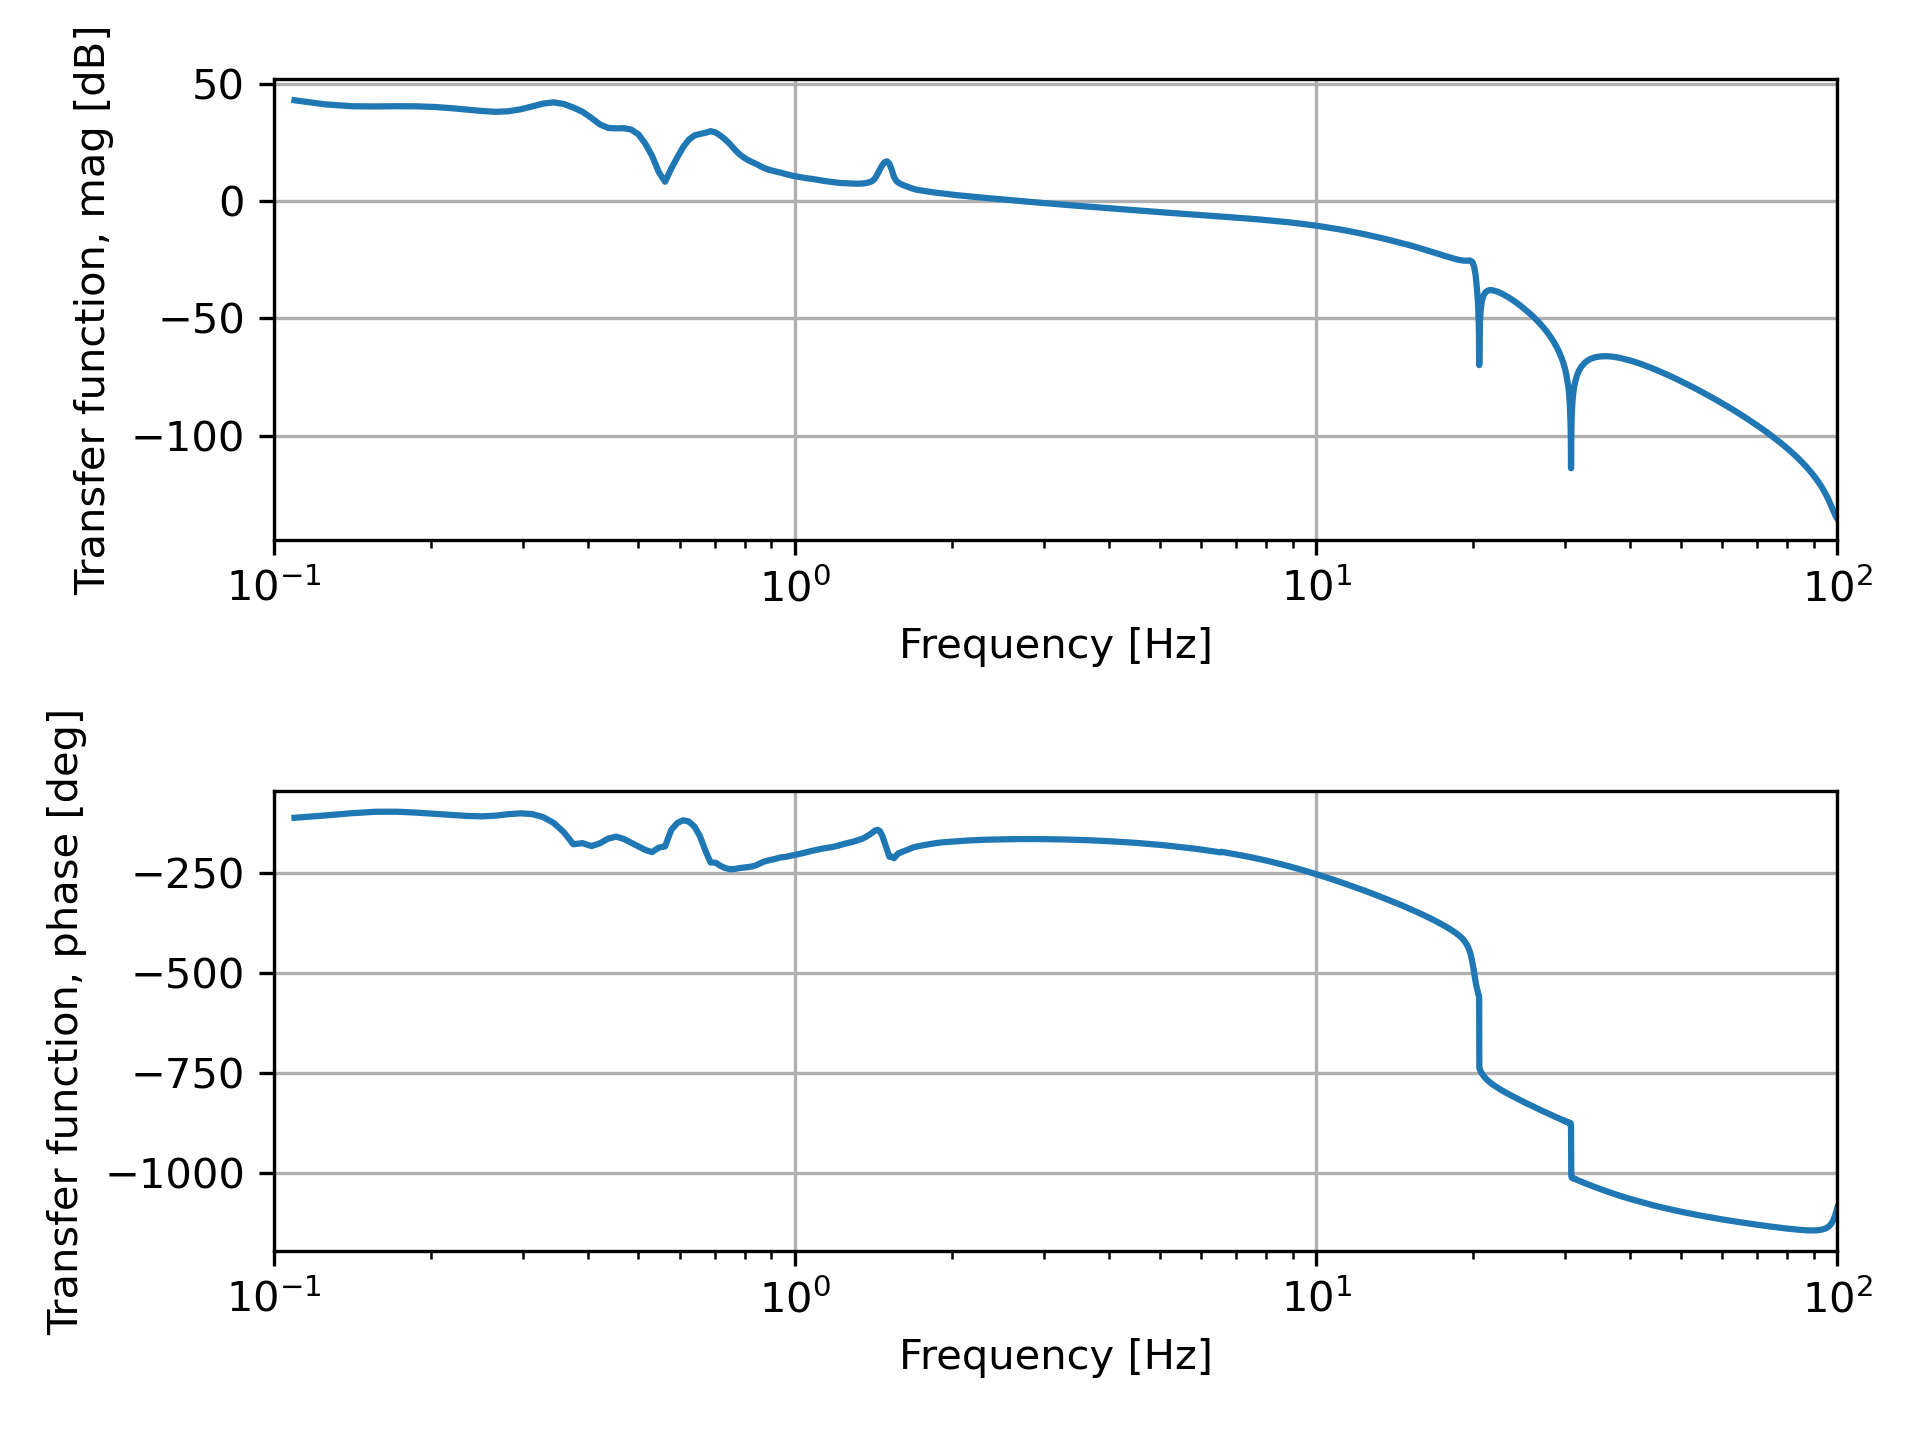
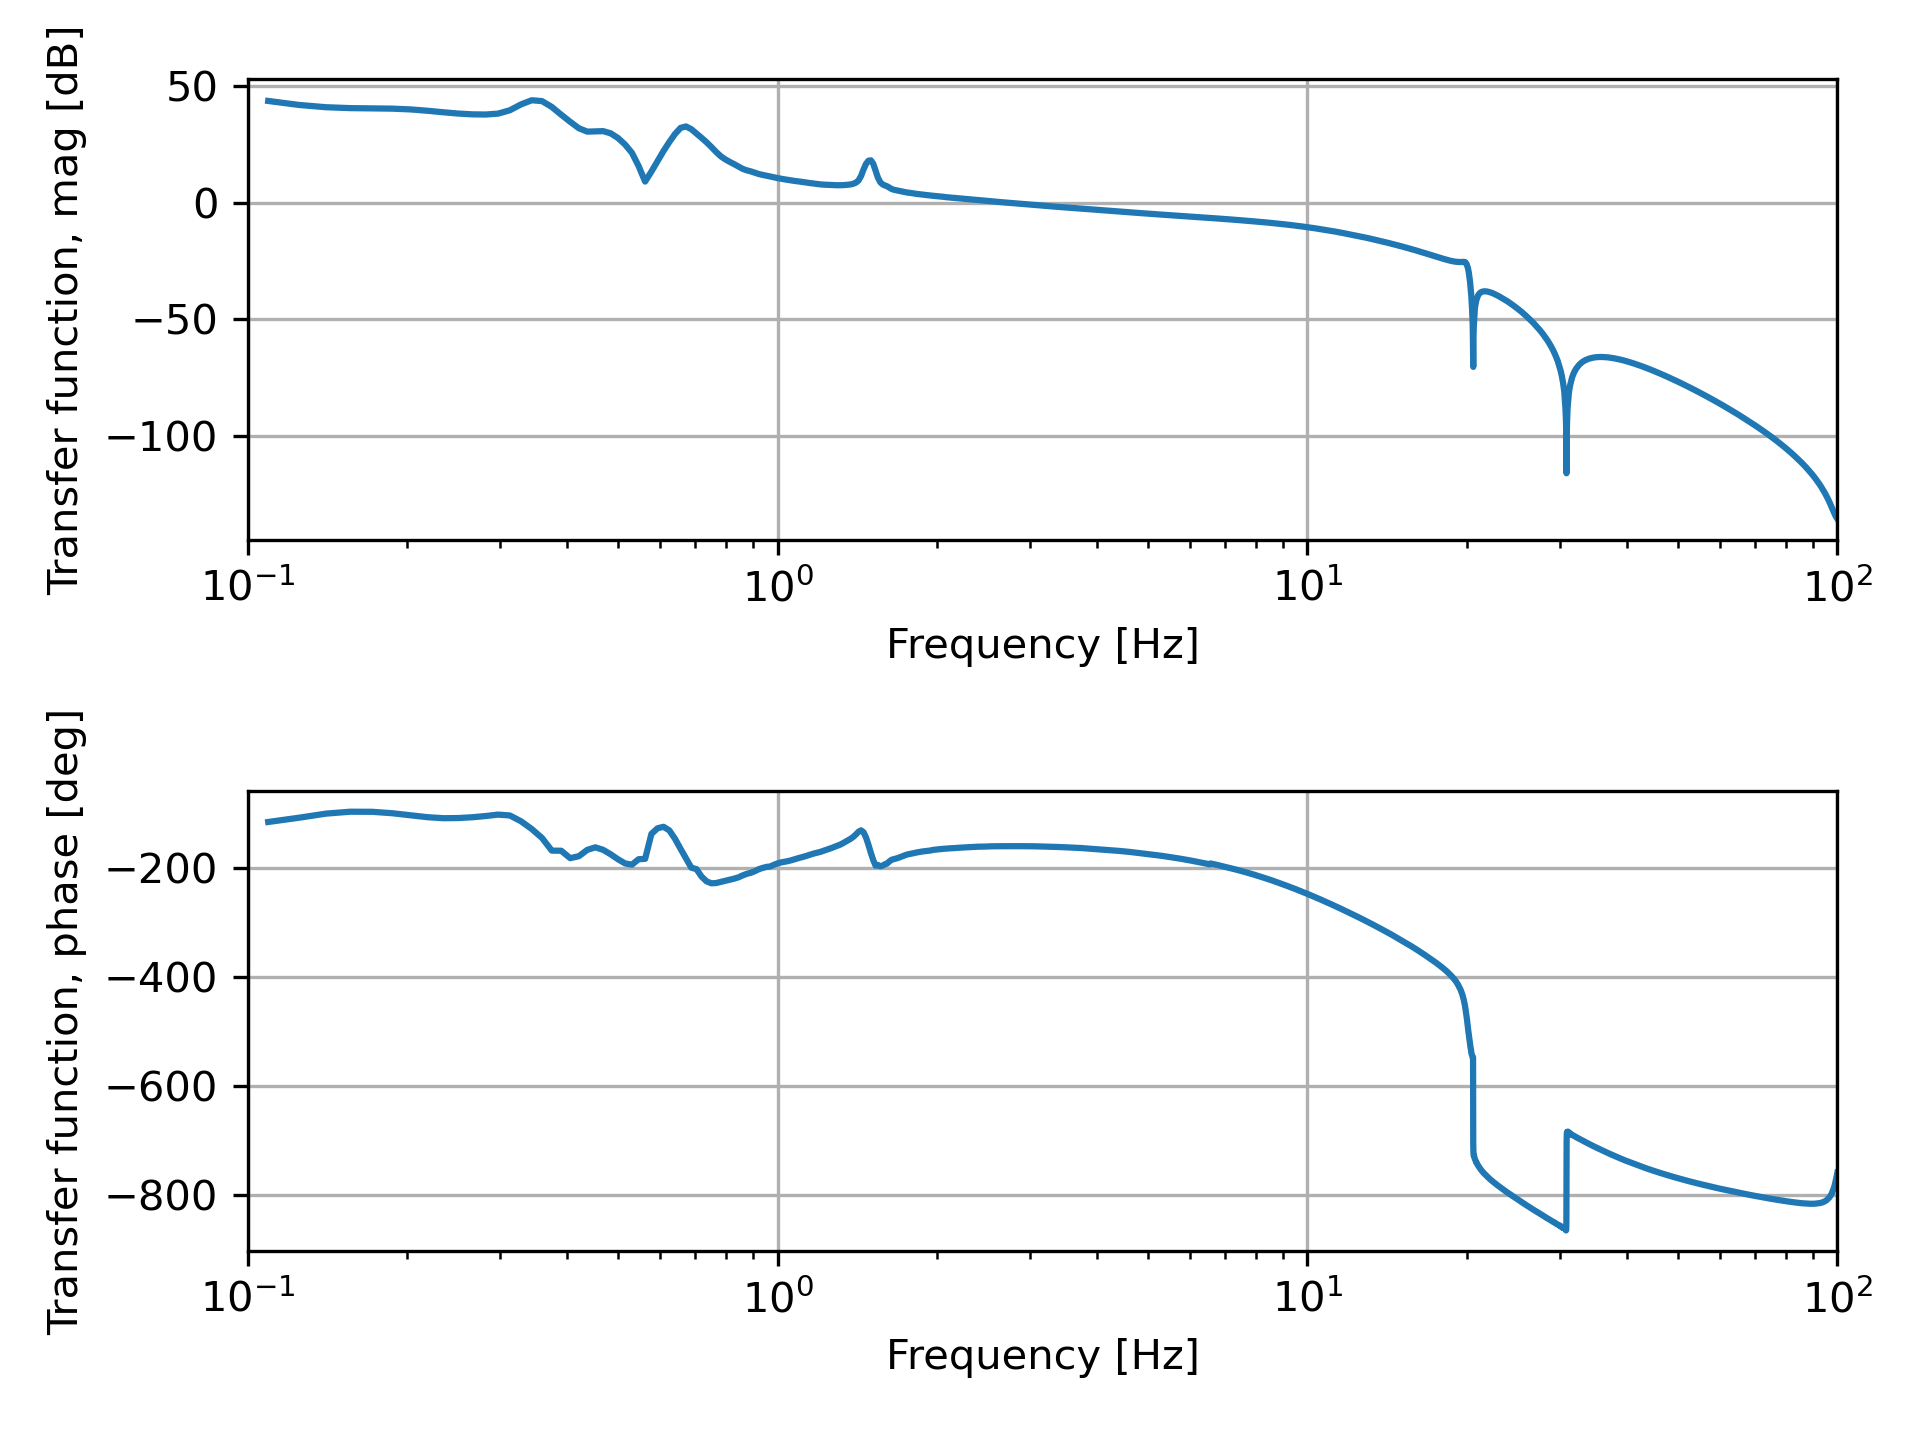
correction small errors when producing plots

diff --git a/SimulationASC/SimulationASC.py b/SimulationASC/SimulationASC.py
@@ -27,6 +27,7 @@ def plot_psd(timeseries, T_fft, fs, ylabel='Spectrum [Hz$^{-1/2}$]', filename='S
     window = signal.kaiser(n_fft, beta=35)  # note that beta>35 does not give you more sidelobe suppression
     ff, psd = signal.welch(timeseries, fs=fs, window=window, nperseg=n_fft, noverlap=n_fft//2)
 
+    plt.figure()
     plt.loglog(ff, np.sqrt(psd))
     plt.xlim(0.1, 100)
     plt.xlabel('Frequency [Hz]')
@@ -40,16 +41,16 @@ def plot_bode(sys_ss, filename='./plots/bode_plot.png'):
     ff = np.logspace(-1, 2, 500)
     mag, phase, w = control.bode(sys_ss, 2*np.pi*ff)
 
-    fi = np.logical_and(ff > 0.1, ff < 100)
     plt.figure()
     plt.subplot(2, 1, 1)
-    plt.semilogx(ff[fi], 20*np.log10(mag[fi]))  # Bode magnitude plot
+    plt.semilogx(ff, 20*np.log10(mag))  # Bode magnitude plot
     plt.xlabel('Frequency [Hz]')
     plt.ylabel('Transfer function, mag [dB]')
     plt.xlim(0.1, 100)
     plt.grid(True)
     plt.subplot(2, 1, 2)
-    plt.semilogx(ff[fi], phase[fi]*180./np.pi)  # Bode phase plot
+    plt.semilogx(ff, phase*180./np.pi)  # Bode phase plot
+    plt.plot(ff,-180*np.ones(len(ff)), color='red', linestyle='dashed')
     plt.xlabel('Frequency [Hz]')
     plt.ylabel('Transfer function, phase [deg]')
     plt.xlim(0.1, 100)
@@ -152,10 +153,11 @@ class Plant:
             self.ns.append({'name': name, 'ff': ff, 'rPSD': rpsd, 'unit': units[k]})
 
             if plotit:
+                plt.figure()
                 plt.loglog(ff, rpsd)
                 plt.xlim(0.1, 100)
                 plt.xlabel('Frequency [Hz]')
-                plt.ylabel('Model spectrum, {0} [{1}]'.format(name,units[k]+'/$\sqrt{\\rm Hz}$'))
+                plt.ylabel('Model spectrum, {0} [{1}]'.format(name, units[k]+'/$\sqrt{\\rm Hz}$'))
                 plt.grid(True)
                 plt.tight_layout()
                 plt.savefig('./plots/' + name + '.png', dpi=300)
@@ -177,6 +179,7 @@ class Plant:
             self.tfs.append({'name': name, 'ff': ff, 'tf': tf, 'unit': units[k]})
 
             if plotit:
+                plt.figure()
                 plt.loglog(ff, np.abs(tf))
                 plt.xlim(0.1, 100)
                 plt.xlabel('Frequency [Hz]')
@@ -364,7 +367,7 @@ class Controller:
         return output[1]
 
     def get_last_controller_input(self):
-        return self.last_controller_input[0]
+        return self.last_controller_input
 
     def get_feedback_filter_sys(self):
         return self.feedback_sys
@@ -375,39 +378,49 @@ def open_loop_run(asc_plant, asc_controller, data):
     N = data['duration_batch']*data['sampling_frequency']
 
     tstP_t = np.zeros((N,))
+    readout_t = np.zeros((N,))
     control_t = np.zeros((N,))
     for k in range(N-1):
-        tstP_t[k+1] = asc_plant.sample_tstP(control_t[k])
-        control_t[k+1] = asc_controller.sample_feedback(tstP_t[k+1])
+        tstP_t[k+1] = asc_plant.sample_tstP()
+        control_t[k+1] = asc_controller.sample_feedback(input_signal=tstP_t[k+1])
+        readout_t[k+1] = asc_controller.get_last_controller_input()
         if tstP_t[k+1]>1:
             print('Diverging time series:', tstP_t[k+1])
             sys.exit(0)
+        if np.mod(k, np.round(N/10)) == 0:
+            print(np.round(100.*k/N), '% done of open-loop simulation')
 
     plot_psd(tstP_t, data['duration_fft'], data['sampling_frequency'],
              ylabel='TST P [rad/$\sqrt{\\rm Hz}$]', filename='./plots/tstP_open_loop.png')
     plot_psd(control_t, data['duration_fft'], data['sampling_frequency'],
-             ylabel='Control output [rad/$\sqrt{\\rm Hz}$]', filename='./plots/control_output_open_loop.png')
+             ylabel='Control output [Nm/$\sqrt{\\rm Hz}$]', filename='./plots/control_output_open_loop.png')
+    plot_psd(readout_t, data['duration_fft'], data['sampling_frequency'],
+             ylabel='Control input [rad/$\sqrt{\\rm Hz}$]', filename='./plots/control_input_open_loop.png')
 
 def closed_loop_run(asc_plant, asc_controller, data):
     asc_plant.reset_counters()
 
     N = data['duration_batch']*data['sampling_frequency']
 
-    readout_t = np.zeros((N,))
     tstP_t = np.zeros((N,))
+    readout_t = np.zeros((N,))
+    control_t = np.zeros((N,))
     for k in range(N-1):
-        control_output = asc_controller.sample_feedback(tstP_t[k])
-        tstP_t[k+1] = asc_plant.sample_tstP(control_output)
+        tstP_t[k+1] = asc_plant.sample_tstP(pum_input_signal=-control_t[k])
+        control_t[k+1] = asc_controller.sample_feedback(input_signal=tstP_t[k+1])
         readout_t[k+1] = asc_controller.get_last_controller_input()
-        if readout_t[k+1]>1:
-            print('Diverging time series:',readout_t[k+1])
+        if tstP_t[k+1] > 1:
+            print('Diverging time series:', tstP_t[k+1])
             sys.exit(0)
-
-    plot_psd(readout_t, data['duration_fft'], data['sampling_frequency'],
-             ylabel='TST P readout, hard mode [rad/$\sqrt{\\rm Hz}$]', filename='./plots/tstP_readout_closed_loop.png')
+        if np.mod(k, np.round(N/10)) == 0:
+            print(np.round(100. * k / N), '% done of closed-loop simulation')
 
     plot_psd(tstP_t, data['duration_fft'], data['sampling_frequency'],
              ylabel='TST P [rad/$\sqrt{\\rm Hz}$]', filename='./plots/tstP_closed_loop.png')
+    plot_psd(control_t, data['duration_fft'], data['sampling_frequency'],
+             ylabel='Control output [Nm/$\sqrt{\\rm Hz}$]', filename='./plots/control_output_closed_loop.png')
+    plot_psd(readout_t, data['duration_fft'], data['sampling_frequency'],
+             ylabel='Control input [rad/$\sqrt{\\rm Hz}$]', filename='./plots/control_input_closed_loop.png')
 
 
 """
@@ -422,25 +435,23 @@ def main(args):
     physics = {'P': float(args['P']), 'dydth_soft': float(args['dydth_soft']), 'dydth_hard': float(args['dydth_hard'])}
     controls = {'noise_hard_mode': float(args['n_hard'])}
 
-    asc_plant = Plant(physics, data, plotit=False)
-    asc_controller = Controller(controls, data, plotit=False)
+    asc_plant = Plant(physics, data, plotit=True)
+    asc_controller = Controller(controls, data, plotit=True)
 
     transfer_functions = False
-    sim_open_loop = True
+    sim_open_loop = False
     sim_closed_loop = False
 
     if transfer_functions:
+        # bode plots of state-space models
         open_loop_sys = control.series(asc_plant.get_pumP_2_tstP_SS_sys(), asc_controller.get_feedback_filter_sys())
         plot_bode(open_loop_sys, filename='./plots/bode_open_loop.png')
 
-        # measure transfer functions
+        # measure transfer functions (with white noise input)
         asc_plant.reset_counters()
         transfer_function(open_loop_sys, data['duration_batch'], data['sampling_frequency'],
                           filename='./plots/bode_open_loop_measured.png')
 
-        #asc_plant.reset_counters()
-        #transfer_function(asc_plant.get_tstP_2_tstP_SS_sys(), data['duration_batch'], data['sampling_frequency'],
-        #                  filename='./plots/bode_tstP_2_tstP_measured.png')
         transfer_function(asc_controller.get_feedback_filter_sys(), data['duration_batch'], data['sampling_frequency'],
                           filename='./plots/bode_feedback_measured.png')
 
@@ -473,4 +484,4 @@ if __name__ == '__main__':
 
     start_time = time.time()
     main(args)
-    print("--- %s seconds ---" % (time.time() - start_time))
+    print("--- %s seconds ---" % np.round(time.time() - start_time))
